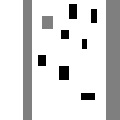
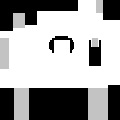
fonctionne 1 fois sur 2

diff --git a/TIPE/transfoimage.py b/TIPE/transfoimage.py
@@ -1,46 +1,77 @@
 from PIL import Image
-fichierimage="assets/maquettehall1.jpg"
-def transfoimage():
-    global width,height,petit
-    imageSource=Image.open(fichierimage)
+import numpy as np
 
-    #on prend l'image est on la convertie dans un système de couleur 8 bits adapté à pillow
-    image2=imageSource.convert("L")
+""" 
 
-    (height, width)=image2.size
-    print("taille de l'image=",image2.size)
-    petitL=[]
-    grandL=[]
-    for x in range (width):
-        for y    in range (height):
+0 c'est noir 1 c'est blanc
 
-            if image2.getpixel((x,y)) > 200:
-                petitL+=[1]
-            elif image2.getpixel((x,y)) < 50:
-                petitL += [0]
+
+ """
+fichierimage = "assets/maquettehall1.jpg"
+imageSource = Image.open(fichierimage)
+taillepixel = 120
+
+
+def transfoimage(imageSource):
+    # on prend l'image est on la convertie dans un système de couleur 8 bits adapté à pillow
+    Image = imageSource.convert("L")
+    (taille, taille) = Image.size
+    print("taille de l'image=", Image.size)
+    MatriceImage = np.zeros((taille, taille))
+    for X in range(taille):
+        for Y in range(taille):
+            # si c'est blanc
+            if Image.getpixel((X, Y)) > 200:
+                MatriceImage[X,Y] = 1
+            # si c'est noir
+            elif Image.getpixel((X, Y)) < 50:
+                MatriceImage[X,Y] = 0
+
             else:
-                petitL+=[2]
+                MatriceImage[X,Y] = 2
 
-        grandL.append(petitL)
-        petitL=[]
-    print(grandL)
-    return(grandL)
+    return (MatriceImage)
 
+
+def pixelisation(image, n):
+    # image, et taille des nouveaux "pixels" attention , n doit être un multiple de la taille de l'image.
+    ImageP = np.zeros((n, n))
+    # on prend l'image est on la convertie dans un système de couleur 8 bits adapté à pillow
+    image = image.convert("L")
+    # on récupère la taille de l'image
+    (taille, taille) = image.size
+    tailleimage = int(taille)
+    taillepixel = tailleimage // n
+
+    for X in range(n):
+        for Y in range(n):
+            # calcul de la moyenne du bloc
+            s = 0
+            for k in range(taillepixel):
+                for l in range(taillepixel):
+                    s += image.getpixel((k + X * taillepixel, l + Y * taillepixel))
+            s = s / (taillepixel ** 2)
+            if s > 128:
+                ImageP[X][Y] = 1
+            else:
+                ImageP[X][Y] = 0
+    return (ImageP)
 
 '''
-grandL=transfoimage()
-print(len(grandL))
-print(height, width)
-img = Image.new('RGB', (height, width), color='white')
+# Imageshow=pixelisation(imageSource,120)
+Imageshow = transfoimage(imageSource)
+tailleimageshow = len(Imageshow)
+print(len(Imageshow))
 
-for i in range(width):
-    for j in range (height):
+img = Image.new('RGB', (tailleimageshow, tailleimageshow), color='white')
 
-        if grandL[i][j]==0:
-            img.putpixel((j,i),(0,0,0,255))
-        elif grandL[i][j]==1:
-            img.putpixel((j, i), (255,0, 0, 255))
+for X in range(tailleimageshow):
+    for Y in range(tailleimageshow):
 
+        if Imageshow[X][Y] == 0:
+            img.putpixel((X, Y), (0, 0, 0, 255))
+        elif Imageshow[X][Y] == 1:
+            img.putpixel((X, Y), (200, 200, 200, 255))
 
 img.show()
 '''

diff --git a/TIPE/main.py b/TIPE/main.py
@@ -3,8 +3,12 @@ from entité import Player
 from grille import astar
 import random
 from transfoimage import transfoimage
+from PIL import Image
+import numpy as np
 
-nbrpoint=25
+fichierimage = "assets/maquettehall1.jpg"
+imageSource = Image.open(fichierimage)
+nbrpoint=10
 
 pg.init() #lancement pygame
 taillecarre = 6
@@ -24,36 +28,19 @@ imagefond = pg.image.load("assets/blanc.jpg") # choix image fond d'ecran
 #création labi, obstacle
 labi =[]
 #labi =[[0 for j in range (ecranx // taillecarre)] for i in range (ecranx // taillecarre)]
-labi = transfoimage()
+labi = transfoimage(imageSource)
 nbrcasedepart=nbrpoint
 
 obstacle =[]
 coorddepart = []
 
-nbrobstacle = 50
+
 for i in range(len(labi)):
     for j in range(len(labi)):
         if labi[i][j] == 2:
             coorddepart.append((i, j))
         elif labi[i][j] == 0:
             obstacle.append((i, j))
-
-'''
-for i in range (nbrobstacle):
-    (murx,mury) = coorddepart[0]
-    while (murx,mury) in coorddepart:
-        murx = random.randint(0,len(labi)-1)
-        mury = random.randint(0,len(labi)-1)
-    labi[murx][mury] = 1
-    obstacle.append((murx,mury))
-'''
-
-
-
-
-
-
-
 
 
 
@@ -121,8 +108,10 @@ while running:
         carréy = Point[i].centre[1] // taillecarre
         Point[i].carré = (carréx, carréy)
 
-
-
+    for i in range(len(labi)):
+        for j in range(len(labi)):
+            if labi[i][j] == 2:
+                pg.draw.rect(ecran, (255, 0, 0),(i * taillecarre, j * taillecarre, taillecarre, taillecarre))
     for i in range(len(obstacle)):
         pg.draw.rect(ecran, (0, 0, 0), (obstacle[i][0] * taillecarre, obstacle[i][1] * taillecarre, taillecarre, taillecarre))
 

diff --git a/TIPE/grille.py b/TIPE/grille.py
@@ -66,6 +66,7 @@ def astar(labi, debut, fin):
 
             # Vérifie que pas un obstacle
             if labi[case_pos[0]][case_pos[1]] ==0:
+                print("mur")
                 continue
 
             # crée nouveau noeud
